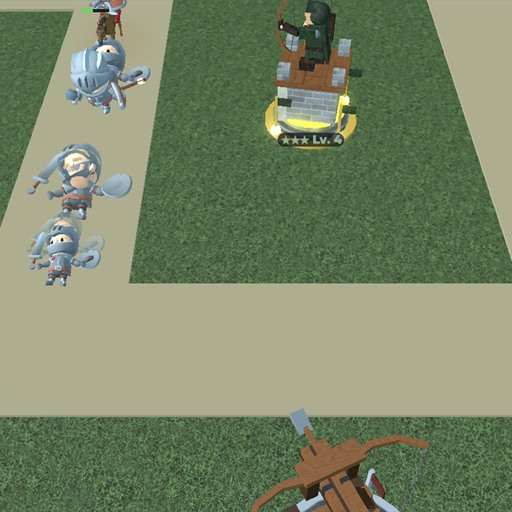
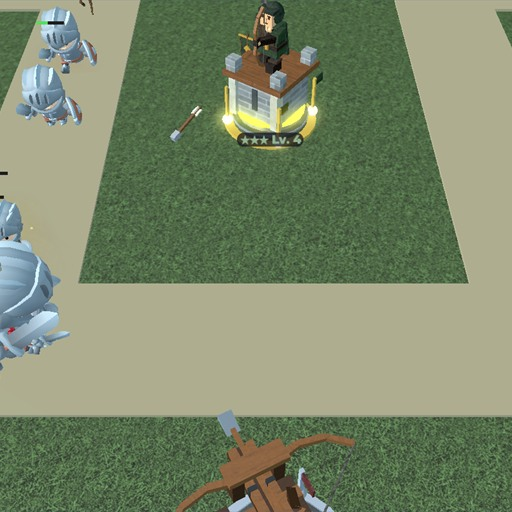
Images de la page Roblox refaites, avec la boutique, la couveuse royale et le panneau du classement
Demande de cette nuit (« nouvelles images de la page ») : l'icône et les miniatures refaites en anglais, avec les
nouveautés.

- scenarios/PageClient.luau : trois nouvelles scènes : la boutique (les trois pass en Robux, avec leurs prix :
  faux numéros dans Studio), les couveuses de la parcelle (la couveuse royale dorée et son œuf doré, un œuf carmin
  prêt, un œuf rare qui couve), le panneau « TOP PLAYERS » de la place, vu bien en face (des joueurs d'essai : le
  classement de Studio est en mémoire ; retirés après la capture).
- scenarios/EnglishServer.luau : la commande « Board » (le classement des panneaux de la place, pour les joueurs
  d'essai).
- page.ps1 : les trois nouvelles miniatures (miniature_boutique, miniature_couveuses, miniature_place).
- assets/page : l'icône et les 10 miniatures refaites (1920 x 1080, 512 x 512) ; LISEZ-MOI.txt à jour (lesquelles
  garder : Roblox limite leur nombre).
- tools/studio-test/README.md : les nouvelles scènes, et les 5 tours spéciales du test eggs.

diff --git a/roblox-ranked-td/tools/studio-test/README.md b/roblox-ranked-td/tools/studio-test/README.md
@@ -176,7 +176,7 @@ l'œuf spécial d'un boss rejoué (1 fois sur 10 sinon).
   l'écran de fin qui dit l'œuf gagné (`eggs_fin_de_niveau`), à la taille d'un téléphone (`eggs_tel_onglet`) ; les
   cartes des œufs spéciaux (« COUVER », « 🔒 Boss du niveau 10 », leurs dessins), le bouton « COUVER »
   (`eggs_oeuf_special_couve`, et en 3D sur la parcelle : `eggs_parcelle_oeuf_special`), la tour spéciale sortie (« 🌟 TOUR SPÉCIALE ! » : `eggs_tour_speciale`), une tour
-  spéciale pas encore à lui dans « Mes tours », l'œuf carmin sur l'écran de fin du boss, les 4 tours spéciales dans
+  spéciale pas encore à lui dans « Mes tours », l'œuf carmin sur l'écran de fin du boss, les 5 tours spéciales (celle du désert comprise, posée pour le test) dans
   un niveau avec leur parure (`eggs_speciales_niveau`, `eggs_speciales_pres`) ; « Bloqué ? » : le niveau 11 perdu une
   fois (rien de plus), puis une 2e fois de suite : le conseil (rejouer un niveau réussi, ses œufs qui attendent) et le
   bouton « ◀ Rejouer le niveau 10 », qui le relance (`eggs_bloque`).
@@ -201,7 +201,8 @@ revenir).
 
 Ce n'est pas un test. Le scénario `scenarios\PageClient.luau` met en scène de vraies parties, en anglais (un combat
 dans la vallée avec les 8 tours et un colosse, la même partie vue de près sans l'interface, le boss du col, l'écran
-de victoire, le camp avec trois tours évoluées, l'onglet des œufs, les niveaux) et prend les captures
+de victoire, le camp avec trois tours évoluées, l'onglet des œufs, les niveaux, la boutique, les couveuses avec la
+couveuse royale, le panneau du classement de la place avec des joueurs d'essai) et prend les captures
 `out\page_<nom>.png`.
 Puis :
 
